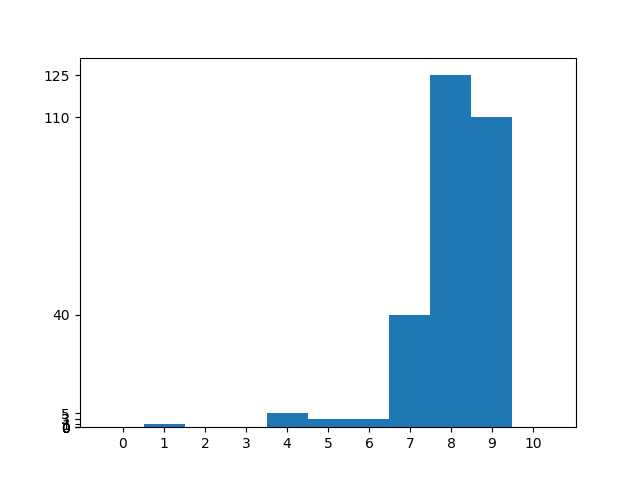
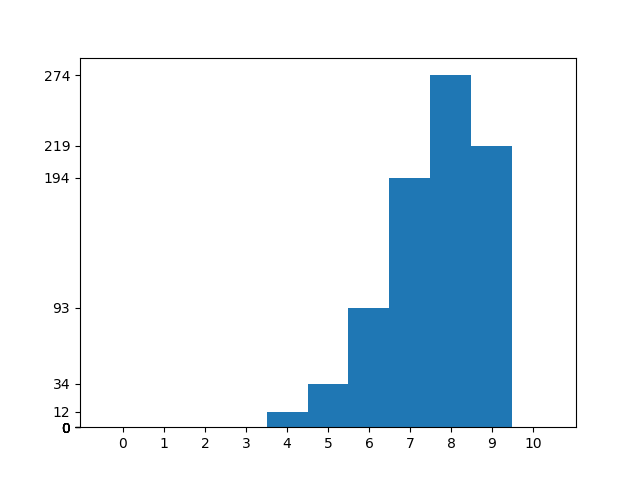
k

diff --git a/classes.py b/classes.py
@@ -13,53 +13,86 @@ class storydata:
     def __init__(self):
         self.stories = []
         self.ratings = []
+        self.urls = []
         self.roundedratings = []
-        self.urls = ['https://www.creepypasta.com/the-dead-zone/']
-        #self.getUrls()
-        self.saveStories()
+        self.collectStories()
+        self.plotRatings()
 
     #fill the list of urls with the creepypasta story lins from the text file
     def getUrls(self):
-        redflags = ['pastas-indexed-category','discussion-post','wp-content','category-','category/','update','page/','page-','tag/','author/']
-        blacklist = []
-        #Open the file of blacklisted pages, extract the names and close the file again
-        blfile = open('blacklist.txt','r')
-        for url in blfile.readlines():
-            blacklist.append(url[:-2])
-        blfile.close()
+        redflags = ['pastas-indexed-category','discussion-post','wp-content','category-','category/','update',
+                    'page/','page-','tag/','author/','creepypasta-','-creepypasta']
 
         #Open the file of website urls, filter out the ones that are not stories themselves
         #Add the rest to the list of urls
         urlfile = open('urls.txt','r')
         for url in urlfile.readlines():
-            url2 = url[:-2]
-            if(url2 not in blacklist):
-                clean = True
-                for flag in redflags:
-                    if(flag in url2):
-                        clean = False
-                if(clean):
-                    self.urls.append(url2)
+            clean = True
+            for flag in redflags:
+                if(flag in url):
+                    clean = False
+            if(clean):
+                self.urls.append(url[:-2])
         print(len(self.urls))
 
     def saveStories(self):
-        for url in self.urls:
+        for i in range(0,len(self.urls)):
+            url = self.urls[i]
+            print('Saving story ' + str(i) + ': ' + url)
             text,rating = self.getPage(url)
-            filename = '/home/jelmer/Documents/pastadata/' + str(self.urls.index(url)) + '.txt'
+            filename = '/home/jelmer/Documents/pastadata/' + str(i) + '.txt'
             f = open(filename,'w')
             f.write(str(rating))
             f.write('\n')
-            print(text)
             f.write(text)
             f.close()
 
+    # Returns the story from the url as plaintext and the rating as a float
+    def getPage(self, url):
+        # Retrieve the url and create a parser
+        scraper = cfs.create_scraper()
+        page = scraper.get(url).content
+        soup = BeautifulSoup(page, 'html.parser')
+        [s.extract() for s in soup(['style', 'script', '[document]', 'head', 'title'])]
+        readable_text = soup.getText().encode('utf-8','ignore')  # Extract the text from the html and convert it to ASCII
+
+
+        # Find and extract the rating
+        rb = soup.find('strong')
+        rating = float(rb.text.strip())  # strip() is used to remove starting and trailing
+
+        # Find and extract the story's text
+        count = False
+        text = ''
+        for s in readable_text.splitlines():
+            # print(s)
+            if not count:
+                if ('Add this post to your list of favorites' in s):
+                    count = True
+            else:
+                if ('Rate this item:' in s):
+                    break
+                else:
+                    text += s + '\n'
+
+        # Delete newlines at the end of the text so that they don't mess with the data later
+        for i in range(1, 20):
+            if text[-1] == '\n':
+                text = text[:-1]
+            else:
+                break
+        return text, rating
+
     #Retrieve every story and score for every url in the list and add them to the 'stories' and 'ratings' lists
-    def collectStories(self,x,y):
-        for i in range(x,math.max(y,len(self.urls))):
-            # GET TEXT AND RATING FROM FILE i
-            #self.stories.append(text)
-            #self.ratings.append(rating)
-            pass
+    def collectStories(self):
+        for i in range(0,826):
+            filename = '/home/jelmer/Documents/pastadata/' + str(i) + '.txt'
+            f = open(filename, 'r')
+            self.ratings.append(float(f.readlines()[0]))
+            #self.stories.append(file.read()[4:])
+            f.close()
+
+
 
     def roundRatings(self):
         avg = sum(self.ratings) / float(len(self.ratings))
@@ -88,39 +121,6 @@ class storydata:
         if isinstance(element, Comment):
             return False
         return True
-
-    #Returns the story from the url as plaintext and the rating as a float
-    def getPage(self,url):
-        #Retrieve the url and create a parser
-        scraper = cfs.create_scraper()
-        page = scraper.get(url).content
-        soup = BeautifulSoup(page, 'html.parser')
-        [s.extract() for s in soup(['style', 'script', '[document]', 'head', 'title'])]
-        readable_text = soup.getText().encode('utf-8', 'ignore') #Extract the text from the html and convert it to ASCII
-
-        #Find and extract the rating
-        rb = soup.find('strong')
-        rating = float(rb.text.strip())  # strip() is used to remove starting and trailing
-
-        #Find and extract the story's text
-        count = False
-        text = ''
-        for s in readable_text.splitlines():
-            if not count:
-                if('Add this post to your list of favorites' in s):
-                    count = True
-            else:
-                if('Rate this item:' in s):
-                    break
-                else:
-                    text += s + '\n'
-
-        #Delete newlines at the end of the text so that they don't mess with the data later
-        for i in range(1,12):
-            if text[-1] == '\n':
-                text = text[:-1]
-            else: break
-        return text, rating
 
     def getTrain(self):
         return None
